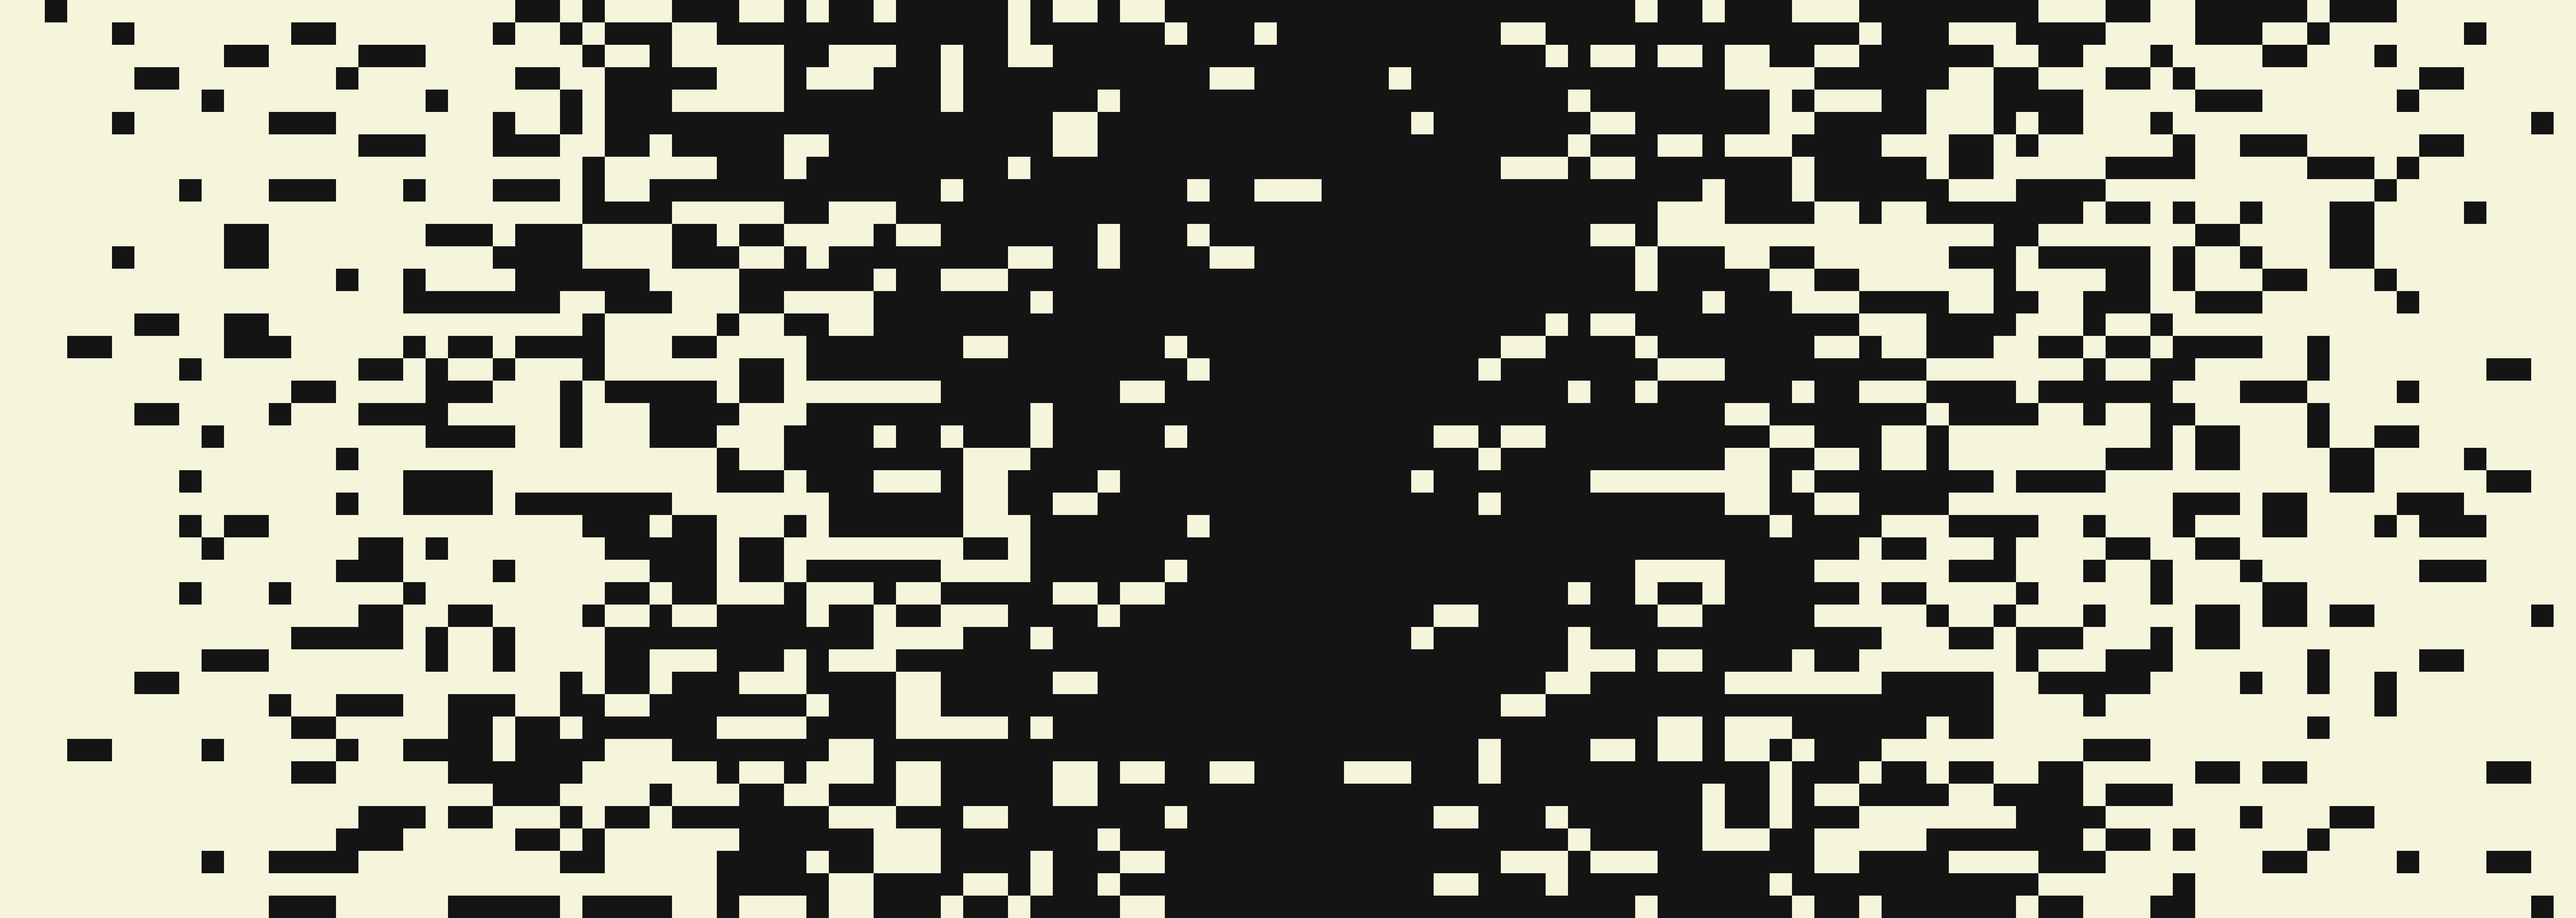
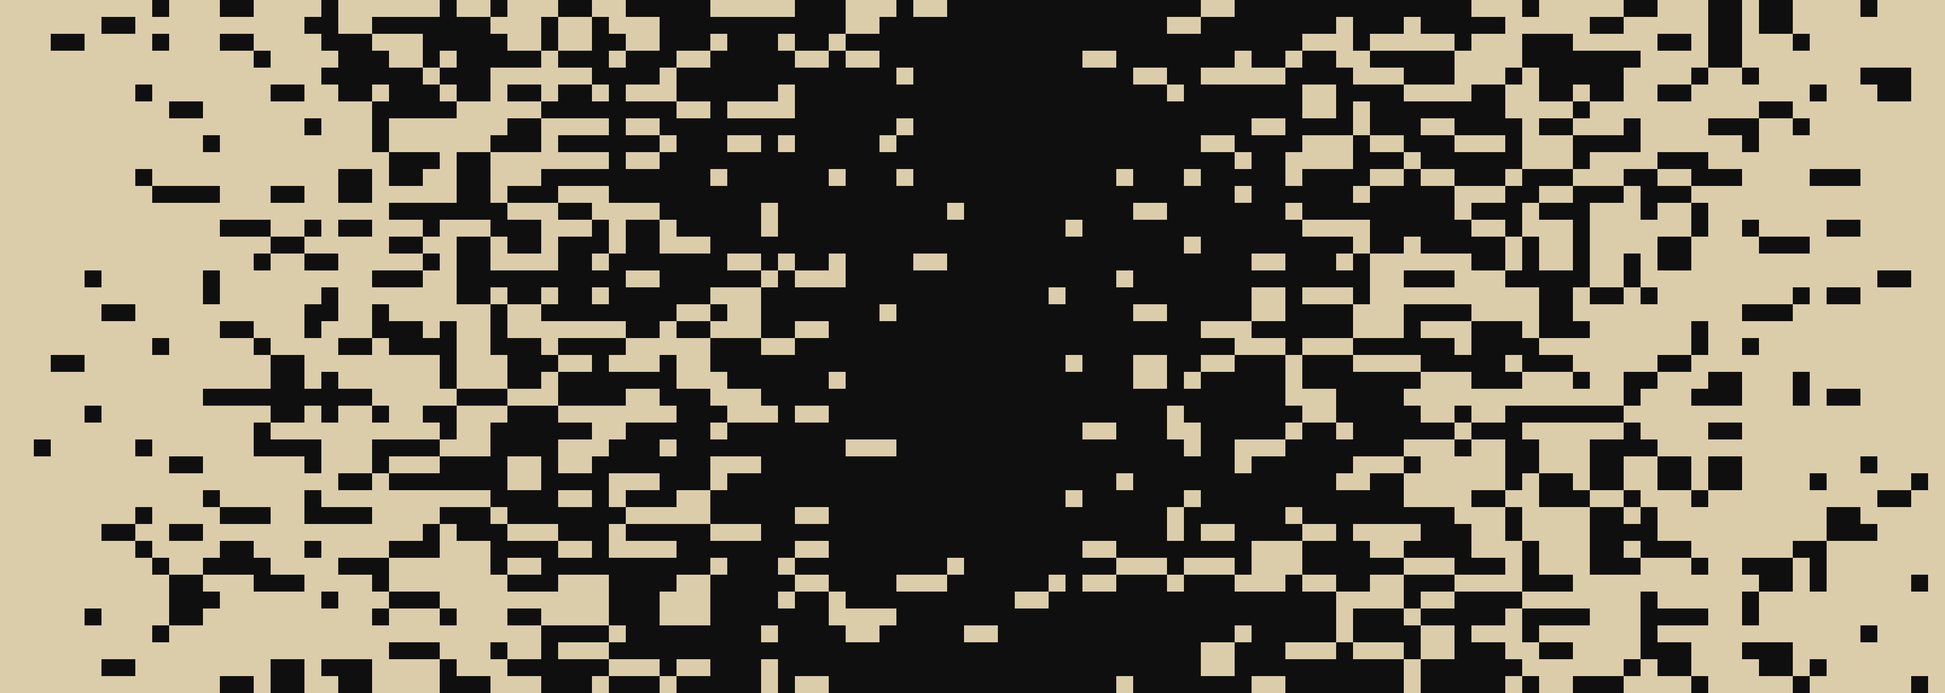
Modified the output's background color.

diff --git a/seine.py b/seine.py
@@ -10,8 +10,8 @@ realWidth = 115
 
 factor = width / xScale
 
-backgroundColor = "beige"
-pixelColor = (20, 20, 20)
+backgroundColor = (220, 205, 170)
+pixelColor = (15, 15, 15)
 
 for imitation in xrange(1, n + 1):
 
